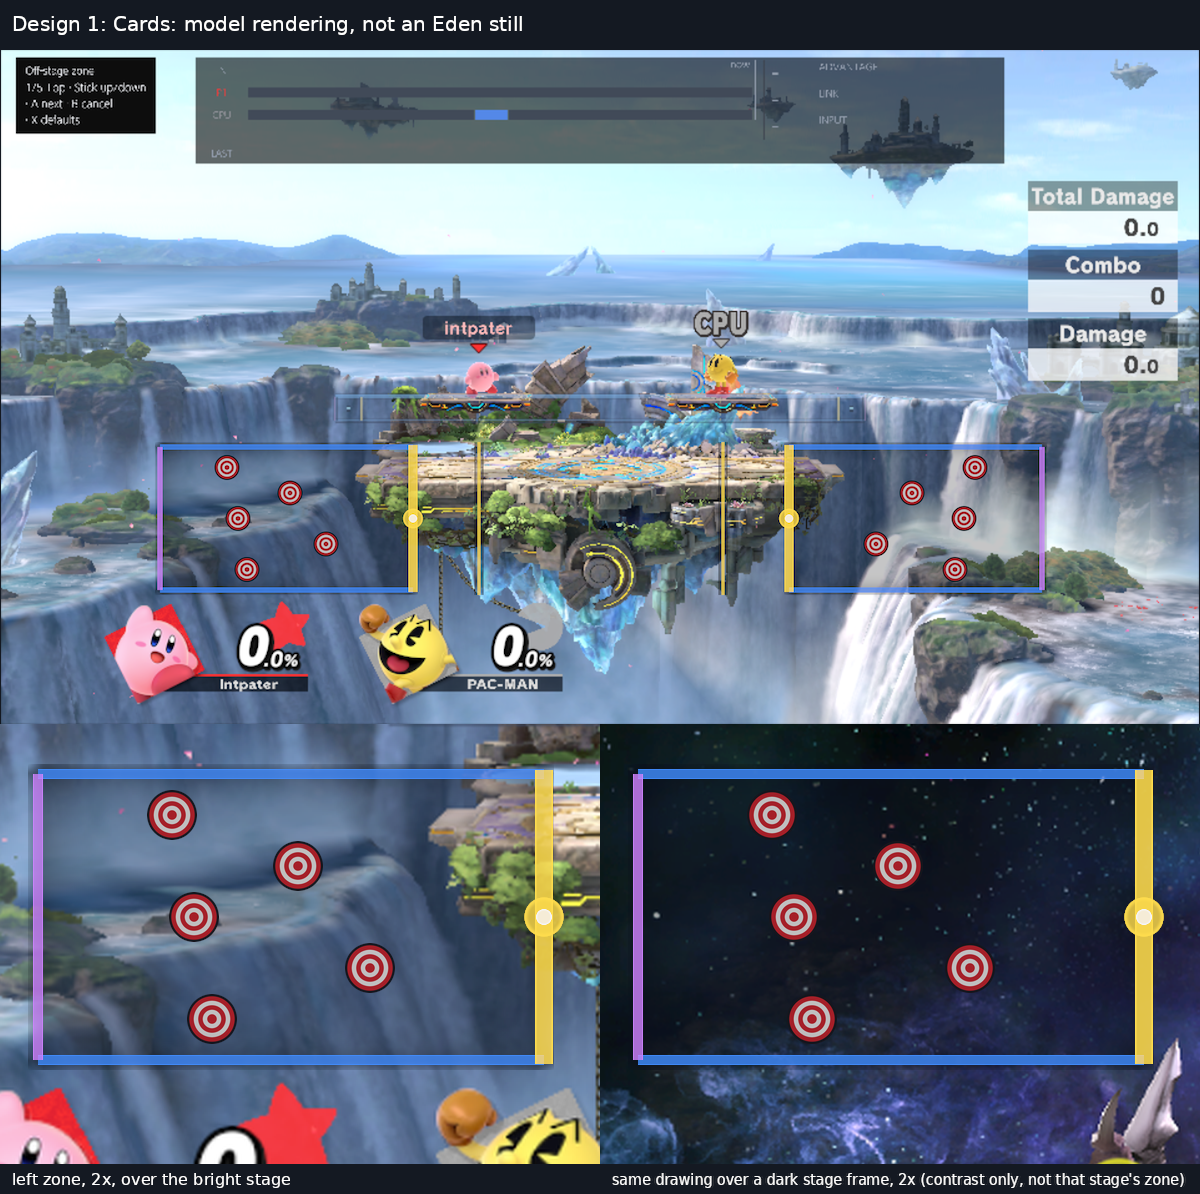
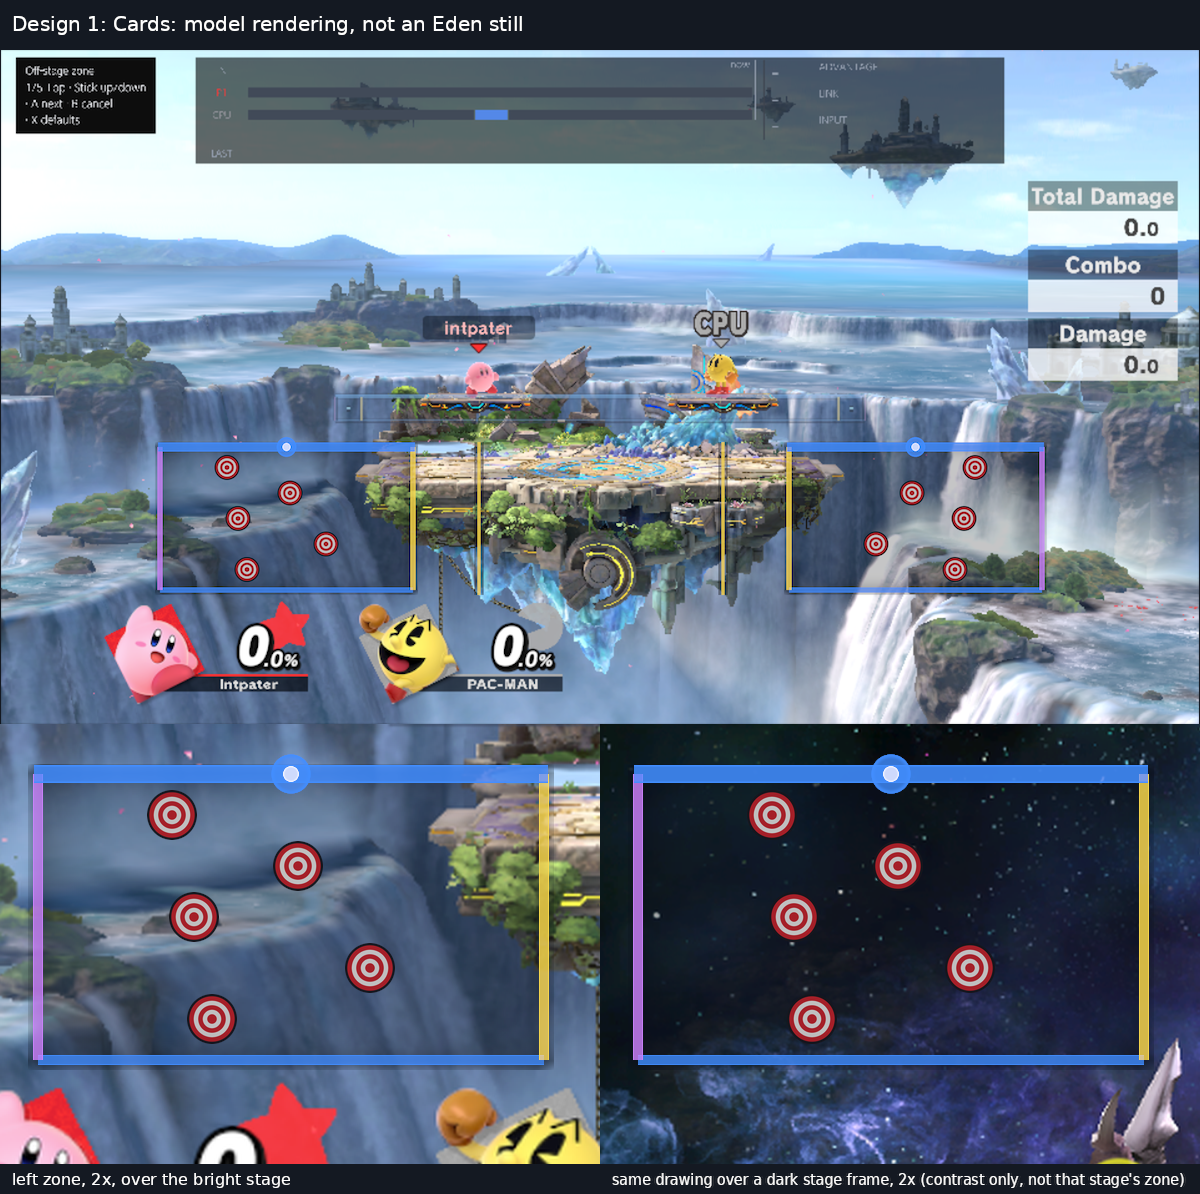
Review: zone editor designs redrawn (a92bc320)
The active boundary now matches the step-1 Top notice in all three pictures.

diff --git a/docs/review/zone-editor-designs.md b/docs/review/zone-editor-designs.md
@@ -1,6 +1,6 @@
 # Eggs-ercise zone editor: three redesigns (for the operator's pick)
 
-Model renderings, not Eden stills (2026-11-22, fusion-g2-3, commit `119ed546` on `rc15-zone-guide-contrast-rebased`).
+Model renderings, not Eden stills (2026-11-22, fusion-g2-3, commit `a92bc320`, the top boundary shown active as the step-1 notice says on `rc15-zone-guide-contrast-rebased`).
 Each picture shows the design over the bright Small Battlefield still of run B7; below, the left zone at 2x over that still and over a dark frame.
 
 All three keep the hitbox pill cap at 170 and add no pane, texture or material. The hitbox drawing is already off while the editor is open, so the editor borrows its idle bands and caps (and the practice games' ten target pictures) and gives them back when it closes.
